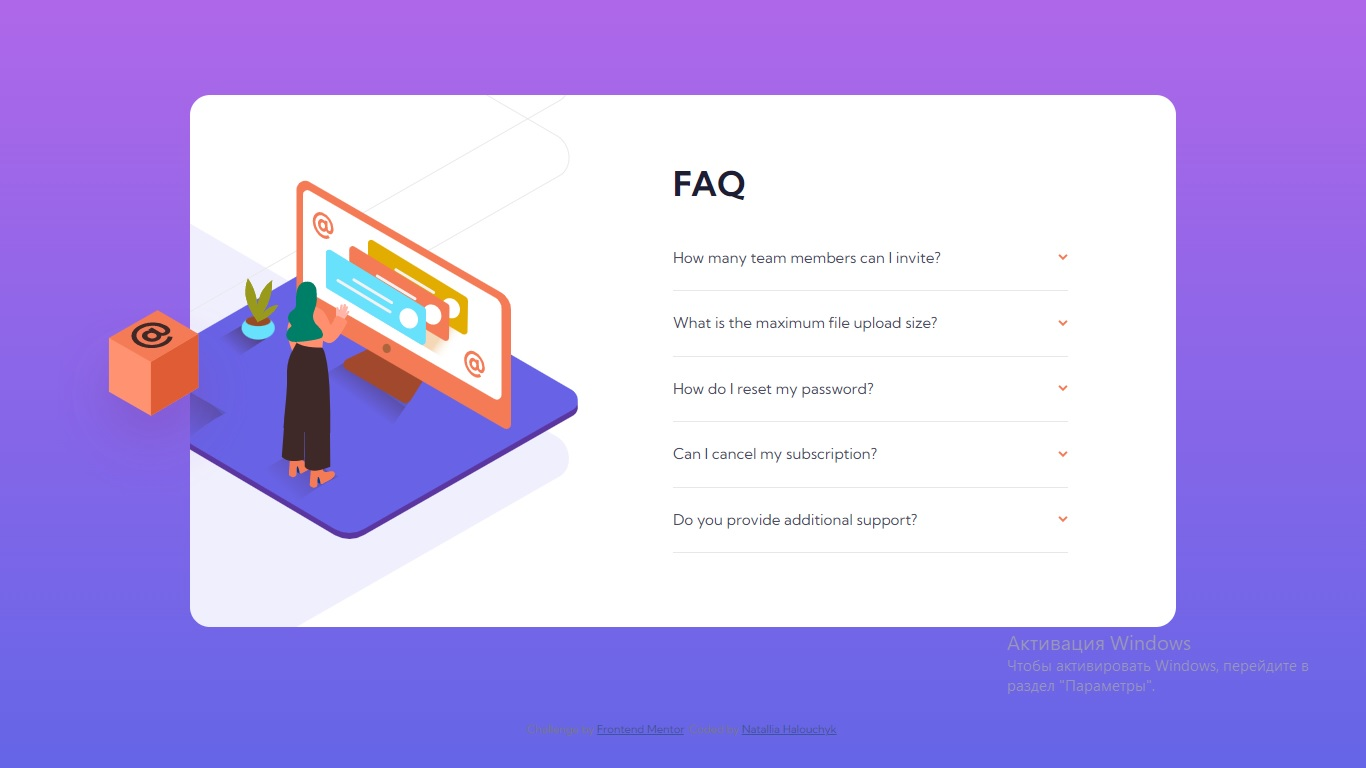
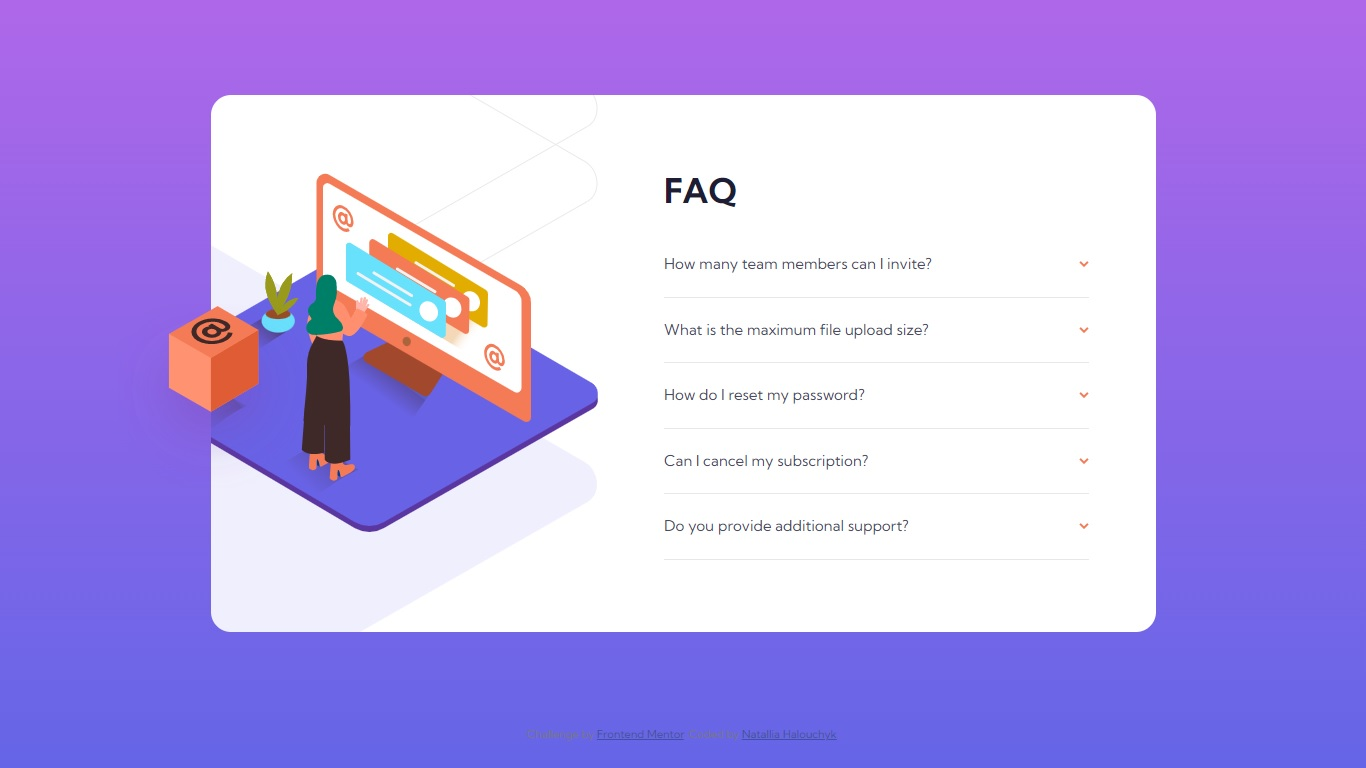
Corrected image positions

diff --git a/styles.css b/styles.css
@@ -21,41 +21,46 @@ hr {
 
 /* The entire card style */
 .card-box {
-  width: 65%;
+  width: 70%;
   height: 80%;
   margin: 7% auto;
-  padding: 3% 8% 5% 0;
   border-radius: 20px;
   background-color: white;
   display: flex;
   justify-content: flex-end;
-  position: relative;
-  overflow: hidden;
 }
 
 .faq-box {
+  flex: 0 1 auto;
   width: 45%;
+  padding: 5% 7% 7% 7%;
 }
 
 /* Images */
-.woman-img {
-  position: absolute;
-  top: 85px;
-  right: 598px;
-}
-
-.pattern-img {
-  position: absolute;
-  right: 606px;
-  bottom: -102px;
+.images-box {
+  flex: 1 1 0;
+  position: relative;
+  background-image: url(images/illustration-woman-online-desktop.svg), url(images/bg-pattern-desktop.svg);
+  background-repeat: no-repeat;
+  background-position: left 100% bottom 56%,
+    left 100% bottom 30%;
 }
 
 .box-img {
   position: absolute;
-  top: 318px;
-  left: 72px;
+  top: 39%;
+  left: -24%;
   z-index: 1;
 }
+
+.woman-img{
+  display: none;
+}
+
+.pattern-img{
+  display: none;
+}
+
 
 /* Box that contains a question and an arrow-button */
 .quest-box {
@@ -93,43 +98,56 @@ hr {
   transform: rotate(180deg);
 }
 
-@media (max-width: 1325px) {
+@media (max-width: 1295px) {
   .card-box {
-    width: 80%;
+    width: 80vw;
+    height: 100vh;
     flex-direction: column;
     justify-content: space-between;
-    margin: 250px auto 150px auto;
-    padding: 30% 7% 10% 7%;
-    overflow: visible; /* to make a woman-img visible outside the card box*/
-    }
+    margin: 15rem auto 10rem auto;
+  }
 
   .faq-box {
-    width: 100%;
+    width: 86%;
+    padding: 2% 7% 10% 7%;
   }
 
   h1 {
     text-align: center;
   }
 
-  .woman-img {
-    height: 50%;
-    margin-left: auto;
-    margin-right: auto;
+  .images-box {
+    background-image: none;
+    height: 25vh;
+    }
+
+  .woman-img{
+    display: block;
+    position: absolute;
+    width: 18rem;
+    margin: auto;
     left: 0;
     right: 0;
-    top: -29%;
+    top: -125%;
+    bottom: 0;
   }
 
-  .pattern-img {
-    display: none;
+  .pattern-img{
+    display: block;
+    position: absolute;
+    width: 18rem;
+    margin: auto;
+    left: 0;
+    right: 0;
+    top: 0.5rem;
+    bottom: 0;
   }
 
   .box-img {
-    top: 176px;
-    left: 1rem;
-
+   display:none;
   }
 }
+
 
 
 /* Attributions */

diff --git a/index.html b/index.html
@@ -23,12 +23,15 @@
 
 <body>
 
-  <img class="box-img" src="images/illustration-box-desktop.svg" alt="">
 
   <div class="card-box">
 
-    <img class="pattern-img" src="images/bg-pattern-desktop.svg" alt="">
-    <img class="woman-img" src="images/illustration-woman-online-desktop.svg" alt="woman-online">
+    <div class="images-box">
+      <img class="box-img" src="images/illustration-box-desktop.svg" alt="">
+      <img class="woman-img" src="images/illustration-woman-online-mobile.svg" alt="">
+      <img class="pattern-img" src="images/bg-pattern-mobile.svg" alt="">
+    </div>
+
 
     <div class="faq-box">
 

diff --git a/README.md b/README.md
@@ -13,6 +13,7 @@ This is a solution to the [FAQ accordion card challenge on Frontend Mentor](http
   - [What I learned](#what-i-learned)
   - [Continued development](#continued-development)
 - [Author](#author)
+- [Acknowledgement](#acknowledgement)
 
 
 
@@ -49,21 +50,24 @@ Users should be able to:
 
 ### What I learned
 
-I tackled a lot the elements' positionning while doing this task. Some solutions were new and even surprising for me. Especially, how to make an element with an absolute position stay centered while the screen width is changing.
+I tackled a lot the elements' positionning while doing this task. Some solutions were new and even surprising for me:
+ - when an image is a child of a container, it can be set and positioned as a background image;
+ - it's allowed to use more than 1 background image;
+ - how to stick an image with absolute position in place while the screen width is changed:
 
 ```css
-.woman-img {
-  height: 50%;
-  margin-left: auto;
-  margin-right: auto;
+.woman-img{
+  display: block;
+  position: absolute;
+  width: 18rem;
+  margin: auto;
   left: 0;
   right: 0;
-  top: -29%;
+  top: -125%;
+  bottom: 0;
 }
 
 ```
-Also for the first time I've used the overflow concept to affect the visibility of images (before I've known only about z-index).
-
 
 
 ### Continued development
@@ -75,4 +79,8 @@ I haven't still found a solution of how to make the box image remain at place(th
 
 - Website - [Add your name here](https://www.your-site.com)
 - Frontend Mentor - [@NatalyHalouchyk](https://www.frontendmentor.io/profile/NatalyHalouchyk)
-- LinkendIn - [@yourusername](https://www.linkedin.com/in/natallia-halouchyk-5b600b225/)
+- LinkendIn - [](https://www.linkedin.com/in/natallia-halouchyk-5b600b225/)
+
+##Acknowledgement
+
+Thanks to the Frontend Mentor user [@eleswastaken](https://www.frontendmentor.io/profile/eleswastaken) who helped me to enhance my realization.
